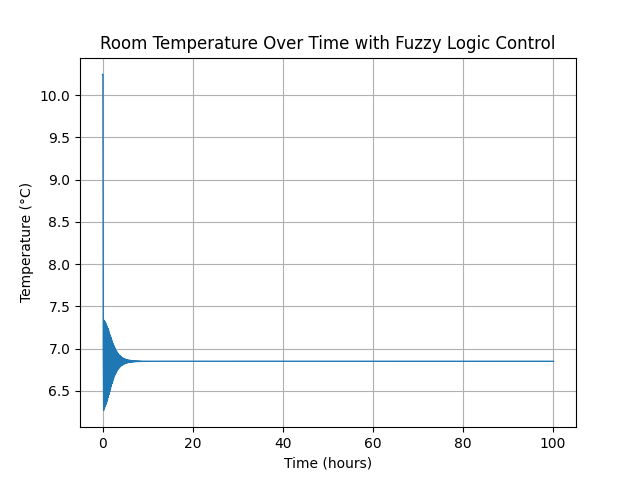
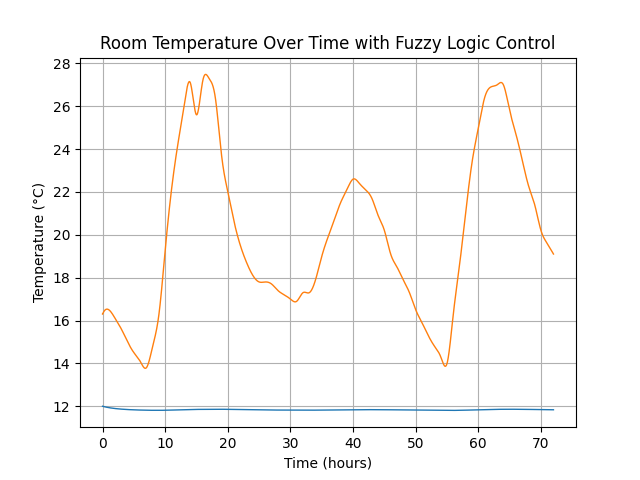
getting decent results

diff --git a/firstRun.py b/firstRun.py
@@ -10,8 +10,18 @@ import random
 controller = ctrl.ControlSystem(rules)
 simulator = ctrl.ControlSystemSimulation(controller)
 
-initial_temp = random.uniform(mm.TEMP_MIN, mm.TEMP_MAX)  # Initial room temperature in Celsius
-initial_hum = random.uniform(mm.HUM_MIN, mm.HUM_MAX)   # Initial room humidity in percentage
+seconds = int(input("Enter the number of seconds for each step: "))
+#15 second step
+step = seconds / 60 / 60
+
+start = 0 
+
+cur_time = start
+
+outdoor_temps = [16.3]
+
+initial_temp = float(input("Enter the initial room temperature (in °C): "))
+initial_hum = float(input("Enter the initial room humidity (in %): "))
 initial_delta_temp = 0  # Initial change in temperature
 
 cur_temp = initial_temp
@@ -23,14 +33,11 @@ hums = [initial_hum]
 delta_temps = [initial_delta_temp]
 times = [0]
 #336 hours = 14 days
-start = 0
 
-#5 minute step
-step = 5 / 60
+max_time = int(input("Enter the total number of hours to simulate: "))
 
-cur_time = start
-
-while cur_time < 100:
+max_ac_power = float(input("Enter the maximum AC/Heater power (in W): "))
+while cur_time < max_time:
     # Set inputs
     simulator.input['temperature'] = cur_temp
     simulator.input['humidity'] = cur_hum
@@ -42,16 +49,16 @@ while cur_time < 100:
     # Get the output values
     heating_power = simulator.output['ac_heater_power']
 
-    new_data = calc_new_temp_and_hum(cur_temp, cur_hum, heating_power, cur_time)
+    new_data = calc_new_temp_and_hum(cur_temp, cur_hum, heating_power, cur_time, seconds, max_ac_power)
     new_temp = new_data['temperature']
     new_hum = new_data['humidity']
 
-
-    print(f"Time: {cur_time:.2f} hrs, Temp: {cur_temp:.2f} C, Humidity: {cur_hum:.2f} %, Delta Temp: {cur_delta_temp:.2f} C, Heating Power: {heating_power:.2f} % -> New Temp: {new_temp:.2f} C, New Humidity: {new_hum:.2f} %")
+    print(f"Time: {cur_time:.2f} hrs, Temp: {cur_temp:.2f} C, Humidity: {cur_hum:.2f} %, Delta Temp: {cur_delta_temp:.2f} C, Heating Power: {heating_power:.2f} % -> New Temp: {new_temp:.2f} C, New Humidity: {new_hum:.2f} %, Outdoor Temp: {new_data['outdoor_temperature']:.2f} C")
     # Store the results
     temps.append(cur_temp)
     hums.append(cur_hum)
     delta_temps.append(cur_delta_temp)
+    outdoor_temps.append(new_data['outdoor_temperature'])
 
     cur_delta_temp = new_temp - cur_temp
     cur_temp = new_temp
@@ -60,6 +67,7 @@ while cur_time < 100:
     times.append(cur_time)
 
 plt.plot(times, temps, label='Temperature over Time', lw=1)
+plt.plot(times, outdoor_temps, label='Outdoor Temperature over Time', lw=1)
 #plt.plot(hums, label='Humidity (%)')
 plt.xlabel('Time (hours)')
 plt.ylabel('Temperature (°C)')
@@ -68,6 +76,8 @@ plt.grid()
 plt.savefig('temperature_over_time.png')
 plt.clf()
 
+times.pop(0)
+delta_temps.pop(0)
 plt.plot(times, delta_temps, label='Delta Temperature over Time', lw = 1)
 plt.xlabel('Time (hours)')
 plt.ylabel('Delta Temperature (°C)')

diff --git a/environment_simulator.py b/environment_simulator.py
@@ -31,30 +31,31 @@ def celsius_to_kelvin(temp_c):
 def kelvin_to_celsius(temp_k):
     return temp_k - 273.15
 
-def calc_new_temp_and_hum(temp, humidity, ac_heater_control, hour):
+def calc_new_temp_and_hum(temp, humidity, ac_heater_control, hour, step_seconds, ac_heater_max_power=1000):
     """Calculate the new temperature after applying power for a given time step."""
 
-    ac_heater_max_power = 750  # in Watts
+    #ac_heater_max_power = 1000  # in Watts
 
     specific_heat = specific_heat_by_humidity(humidity)  # J/(kg·K)
     
-    ac_heater_power = ac_heater_control * ac_heater_max_power 
+    ac_heater_power = ac_heater_control/100 * ac_heater_max_power 
 
     sum_power = ac_heater_power
 
     thermal_conductivity = 0.002  # W/(m·K) Concrete
     wall_area = 20 * 3 * 4  # m^2 (4 walls, 3m tall, 20m wide)
     wall_thickness = 0.3 # m
-    temp_difference = temp - outdoor_temp_by_hour(hour)  # in Celsius
+    outdoor_temp = outdoor_temp_by_hour(hour)  # in Celsius
+    temp_difference = temp - outdoor_temp # in Celsius
 
     heat_loss = (thermal_conductivity * wall_area * temp_difference) / wall_thickness  # in Celsius
 
     sum_power -= heat_loss
 
-    # 5 minute step, 60 seconds per minute, time in seconds
-    temp_change = (sum_power * 5 * 60) / (air_mass * specific_heat)  # in Kelvin
+    # 5 second step
+    temp_change = (sum_power * step_seconds) / (air_mass * specific_heat)  # in Kelvin
 
-    return {"temperature": temp + temp_change, "humidity": humidity}
+    return {"temperature": temp + temp_change, "humidity": humidity, "outdoor_temperature": outdoor_temp}
 
 #print(f"Step hours: {step_hours}")
 #for i in range(24*14):

diff --git a/json_parser.py b/json_parser.py
@@ -1,7 +1,7 @@
 import json
 import numpy as np
 from scipy.interpolate import CubicSpline
-#from matplotlib import pyplot as plt
+from matplotlib import pyplot as plt
 
 ##Read JSON file
 with open('output.json', 'r') as file:
@@ -30,11 +30,14 @@ outdoor_temp_by_hour = CubicSpline(x, temps)
 outdoor_humidity_by_hour = CubicSpline(x, humidities)
 
 if __name__ == "__main__":
-    print( len(temps), len(humidities) )
-    #x_smooth = np.linspace(0, 24*14-1, 1000)
+    print( f"Start outdoor temp: {outdoor_temp_by_hour(0)}" )
+    print( f"End outdoor temp: {outdoor_temp_by_hour(3)}" )
+    print( f"Start outdoor hum: {outdoor_humidity_by_hour(0)}" )
+    print( f"End outdoor hum: {outdoor_humidity_by_hour(3)}" )
+    x_smooth = np.linspace(0, 24*14-1, 1000)
 
-    #plt.scatter(x, temps, label='temp data', color='red')
+    plt.scatter(x, temps, label='temp data', color='red')
 
-    #plt.plot(x, cs_temps(x), label='Cubic Spline Temp')
+    plt.plot(x, outdoor_temp_by_hour(x), label='Cubic Spline Temp')
 
-    #plt.savefig('cubic_spline_temp.png')
+    plt.savefig('cubic_spline_temp.png')

diff --git a/membership_functions.py b/membership_functions.py
@@ -10,9 +10,9 @@ from universes import universes
 
 temperature = ctrl.Antecedent(universes['temperature'], 'temperature')  # -50 to 50 degrees Celsius
 temperature['freezing'] = 1 - fuzz.trapmf(universes['temperature'], [-20, 0, mm.TEMP_MAX, mm.TEMP_MAX])
-temperature['cold'] = fuzz.trapmf(universes['temperature'], [-20, 0, 5, 8])
-temperature['warm'] = fuzz.trapmf(universes['temperature'], [5, 10, 20, 30])
-temperature['hot'] = fuzz.trapmf(universes['temperature'], [20, 35, mm.TEMP_MAX, mm.TEMP_MAX])
+temperature['cold'] = fuzz.trapmf(universes['temperature'], [-20, 0, 7, 13])
+temperature['warm'] = fuzz.trapmf(universes['temperature'], [10, 13, 22, 30])
+temperature['hot'] = fuzz.trapmf(universes['temperature'], [22, 32, mm.TEMP_MAX, mm.TEMP_MAX])
 
 humidity = ctrl.Antecedent(universes['humidity'], 'humidity')      # 0 to 100%
 humidity['dry'] = 1 - fuzz.trapmf(universes['humidity'], [0, 20, mm.HUM_MAX, mm.HUM_MAX])
